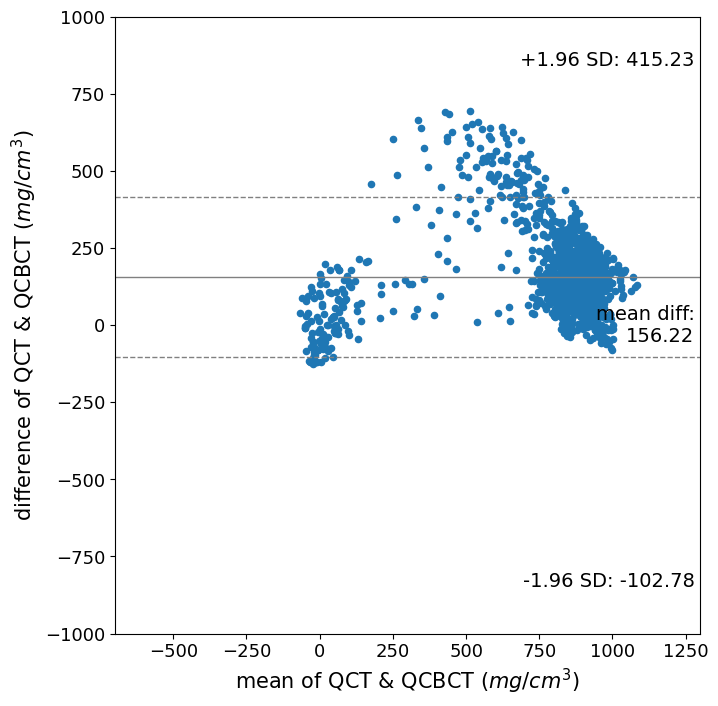
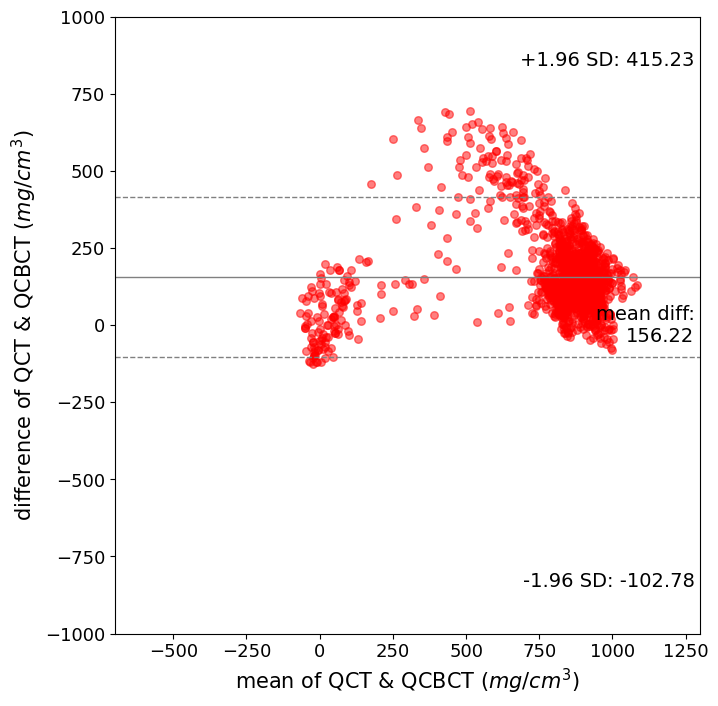
slope&min-max 시도 직전

Changed region(s): [[0.3983, 0.1558, 0.8886, 0.5297], [0.5209, 0.187, 0.5515, 0.2181], [0.4903, 0.2493, 0.5209, 0.2805]]

diff --git a/analysis.py b/analysis.py
@@ -11,12 +11,21 @@ df = pd.read_excel('data/final_6.xlsx')
 # print(df)
 # print(df.max())
 # print(df.min())
+df = df[df['patient']==30]
 
 modality = ['QCBCT','CYC_CBCT','U_CBCT','CAL_CBCT']
 full_modality = ['QCT','QCBCT','CYC_CBCT','U_CBCT','CAL_CBCT']
+color_code = {'QCBCT':'red','CYC_CBCT':'blue','U_CBCT':'green','CAL_CBCT':'gold'}
 params = ['min', 'Max', 'mean', 'std']
 
-sites = {'LAC':['31c','41c'], 'LAT':['31t','41t'], 'LPC':['34c','44c'], 'LPT':['34t','44t'], 'LMC':['36c','46c'], 'LMT':['36t','46t'], 'LI':['36i','46i'], 'UAC':['21c','11c'], 'UAT':['21t','11t'], 'UPC':['24c','14c'], 'UPT':['24t','14t'], 'UMC':['26c','16c'], 'UMT':['26t','16t'], 'US':['26s','16s']}    
+sites = {
+    'All':['31c','31t','41c','41t','34c','34t','44c','44t','36c','36t','46c','46t','36i','46i','21c','21t','11c','11t','24c','24t','14c','14t','26c','26t','16c','16t','26s','16s'],
+    'Cortical':['31c','41c','34c','44c','36c','46c','21c','11c','24c','14c','26c','16c'],
+    'Trabecular':['31t','41t','34t','44t','36t','46t','21t','11t','24t','14t','26t','16t'],
+    'Maxillary':['21c','21t','11c','11t','24c','24t','14c','14t','26c','26t','16c','16t','26s','16s'],
+    'Mandibular':['31c','31t','41c','41t','34c','34t','44c','44t','36c','36t','46c','46t','36i','46i'],
+    'LAC':['31c','41c'], 'LAT':['31t','41t'], 'LPC':['34c','44c'], 'LPT':['34t','44t'], 'LMC':['36c','46c'], 'LMT':['36t','46t'], 'LI':['36i','46i'], 'UAC':['21c','11c'], 'UAT':['21t','11t'], 'UPC':['24c','14c'], 'UPT':['24t','14t'], 'UMC':['26c','16c'], 'UMT':['26t','16t'], 'US':['26s','16s']
+    }    
 
 muc = pd.MultiIndex.from_product([full_modality,params])   # multiindex 활용한 다층 culumn 생성
 indices = [key for key in sites]
@@ -27,9 +36,10 @@ df_param = pd.DataFrame(index = indices, columns = muc)
 
 
 def analysis(group):
+    
+    # 해당 group에 해당하는 site들 모아서 df_sub 생성
     df_list = []
     for site in sites[group]:
-        # print('야임마', site)
         df_list.append(df[df['site']==site])
     df_sub = pd.concat(df_list)
    
@@ -43,16 +53,9 @@ def analysis(group):
         # print(df_sub[modal].min())
         df_param[modal,'min'][group] = df_sub[modal].min()  # multiindex 조회
         df_param[modal,'Max'][group] = df_sub[modal].max()
-        df_param[modal,'min-Max'][group] = f'{df_sub[modal].min()}-{df_sub[modal].max()}'
+        # df_param[modal,'min-Max'][group] = f'{df_sub[modal].min()}-{df_sub[modal].max()}'
         df_param[modal,'mean'][group] = round(df_sub[modal].mean(), 2)
         df_param[modal,'std'][group] = round(df_sub[modal].std(), 2)
-        # df_param[modal,'mean'][group] = f'{df_sub[modal].mean():.2f}'
-
-
-        # print('<min>', df_sub['QCT'].min()) # 최소
-        # print('<max>', df_sub.max()) # 최대
-        # print('<mean>', df_sub.mean())  # 평균
-        # print('<std>', df_sub.std())   # 표준편차
 
 
 
@@ -66,12 +69,13 @@ def analysis(group):
         X = df_sub['QCT']
         Y = df_sub[modal]
 
-        sns.regplot(x='QCT', y=modal, data=df_sub, ci=None, line_kws={'color':'red', 'alpha':0.9})    # df column 중에서 x랑 y 선택해서 plot / ci:confidence interval
+        sns.regplot(x='QCT', y=modal, data=df_sub, ci=None, color=color_code[modal], scatter_kws={'alpha':0.2}, truncate=False)    # df column 중에서 x랑 y 선택해서 plot / ci:confidence interval
+        # , line_kws={'color':'red', 'alpha':0.5}
         # 그래프: https://mindscale.kr/course/python-visualization-basic/relation/
 
         x = range(-1000,2000)
         y = x
-        plt.plot(x,y,ls='dotted')
+        plt.plot(x,y,ls='dotted',color='black')   # y=x 기준선 그리기
 
 
         # 추세선값 & R2: https://jimmy-ai.tistory.com/190
@@ -87,37 +91,39 @@ def analysis(group):
         plt.xlabel('QCT $(mg/cm^3)$')
         plt.ylabel(f'{modal} $(mg/cm^3)$')
 
-        plt.text(100,1100, f'$R^2$ = {r2:.3f}', size = 12)   # 위치는 그냥 x,y 단위 그대로 / 소수점 셋째자리까지
-        plt.text(100,1000, f'y = {fit_line[0]:.2f}x {sign} {abs(fit_line[1]):.2f}', size=12)
+        plt.text(100,1100, f'y = {fit_line[0]:.2f}x {sign} {abs(fit_line[1]):.2f}', size=12)
+        plt.text(100,1000, f'$R^2$ = {r2:.3f}', size = 12)   # 위치는 그냥 x,y 단위 그대로 / 소수점 셋째자리까지
 
 
         # 회귀분석: https://lovelydiary.tistory.com/339
         # print(ols(f'{modal} ~ QCT', data=df_sub).fit().summary())    # 종속(Y) ~ 독립(X)
 
 
-        plt.savefig(f'result/linear_{group}_{modal}.png', bbox_inches='tight')
+        plt.savefig(f'result/30/linear_{group}_{modal}.png', bbox_inches='tight')
         plt.close()
         # plt.show()  # ㄷㄷㄷ 이게 필요하다고 하네
         # '''
             
 
+
+
         # 아래는 bland-altman
         # '''
         f,ax = plt.subplots(1, figsize=(7,7))
-        sm.graphics.mean_diff_plot(X,Y, ax=ax)
+        sm.graphics.mean_diff_plot(X,Y, ax=ax, scatter_kwds={'color':color_code[modal], 'alpha':0.5, 's':30})  # if size, 's'
         plt.xlim(-700,1300)
         plt.ylim(-1000,1000)
         
         plt.xlabel(f'mean of QCT & {modal} $(mg/cm^3)$')
         plt.ylabel(f'difference of QCT & {modal} $(mg/cm^3)$')
 
-        plt.savefig(f'result/Bland_Altman_{group}_{modal}.png', bbox_inches='tight')
+        plt.savefig(f'result/30/Bland_Altman_{group}_{modal}.png', bbox_inches='tight')
         plt.close()
         # plt.show()
         # '''
 
 
-# 별개 출력
+# # 별개 출력
 # analysis('LAC')
 
 
@@ -130,6 +136,7 @@ for group in sites:
 print('<df_param>: ', df_param) # min, Max, mean, std 출력
 
 
-writer = pd.ExcelWriter('data/df_param.xlsx', engine='openpyxl')
+# parameter 엑셀로 저장
+writer = pd.ExcelWriter('data/30/df_param.xlsx', engine='openpyxl')
 df_param.to_excel(writer)
 writer.save()
